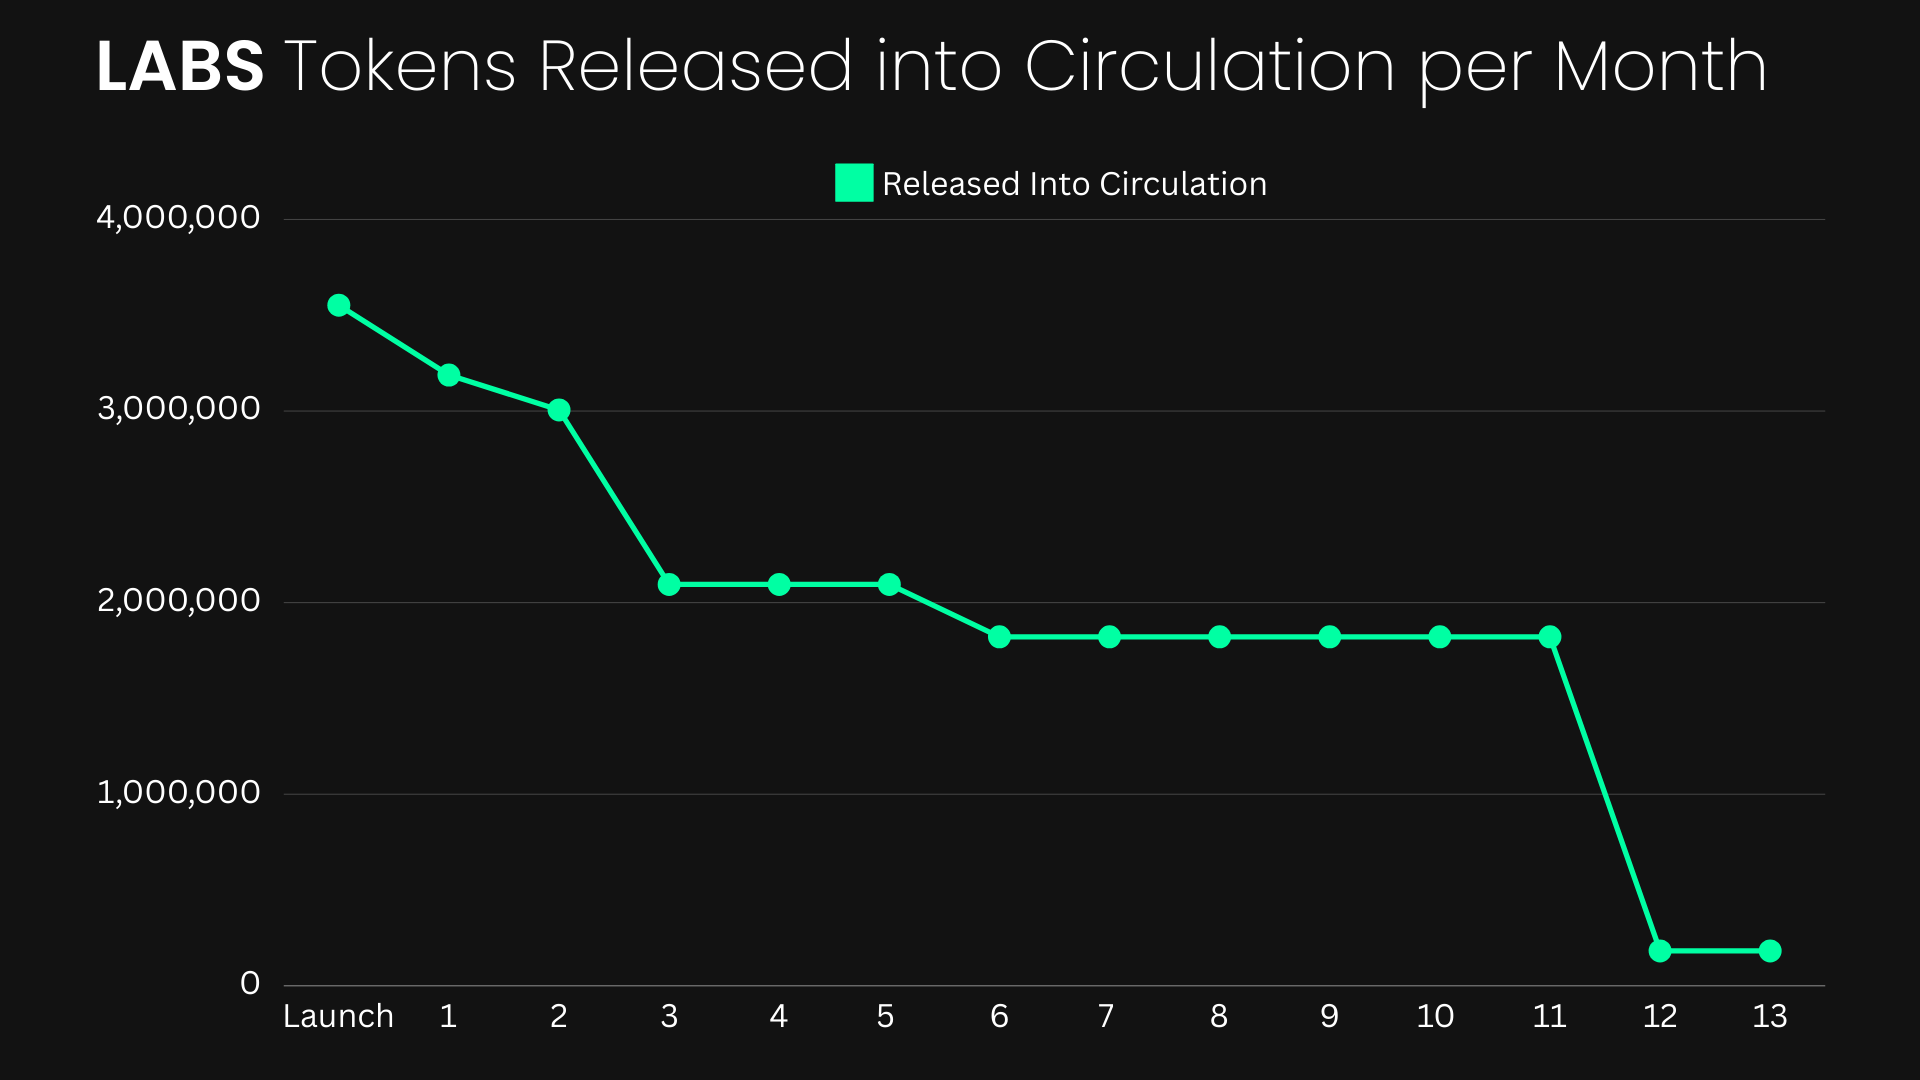
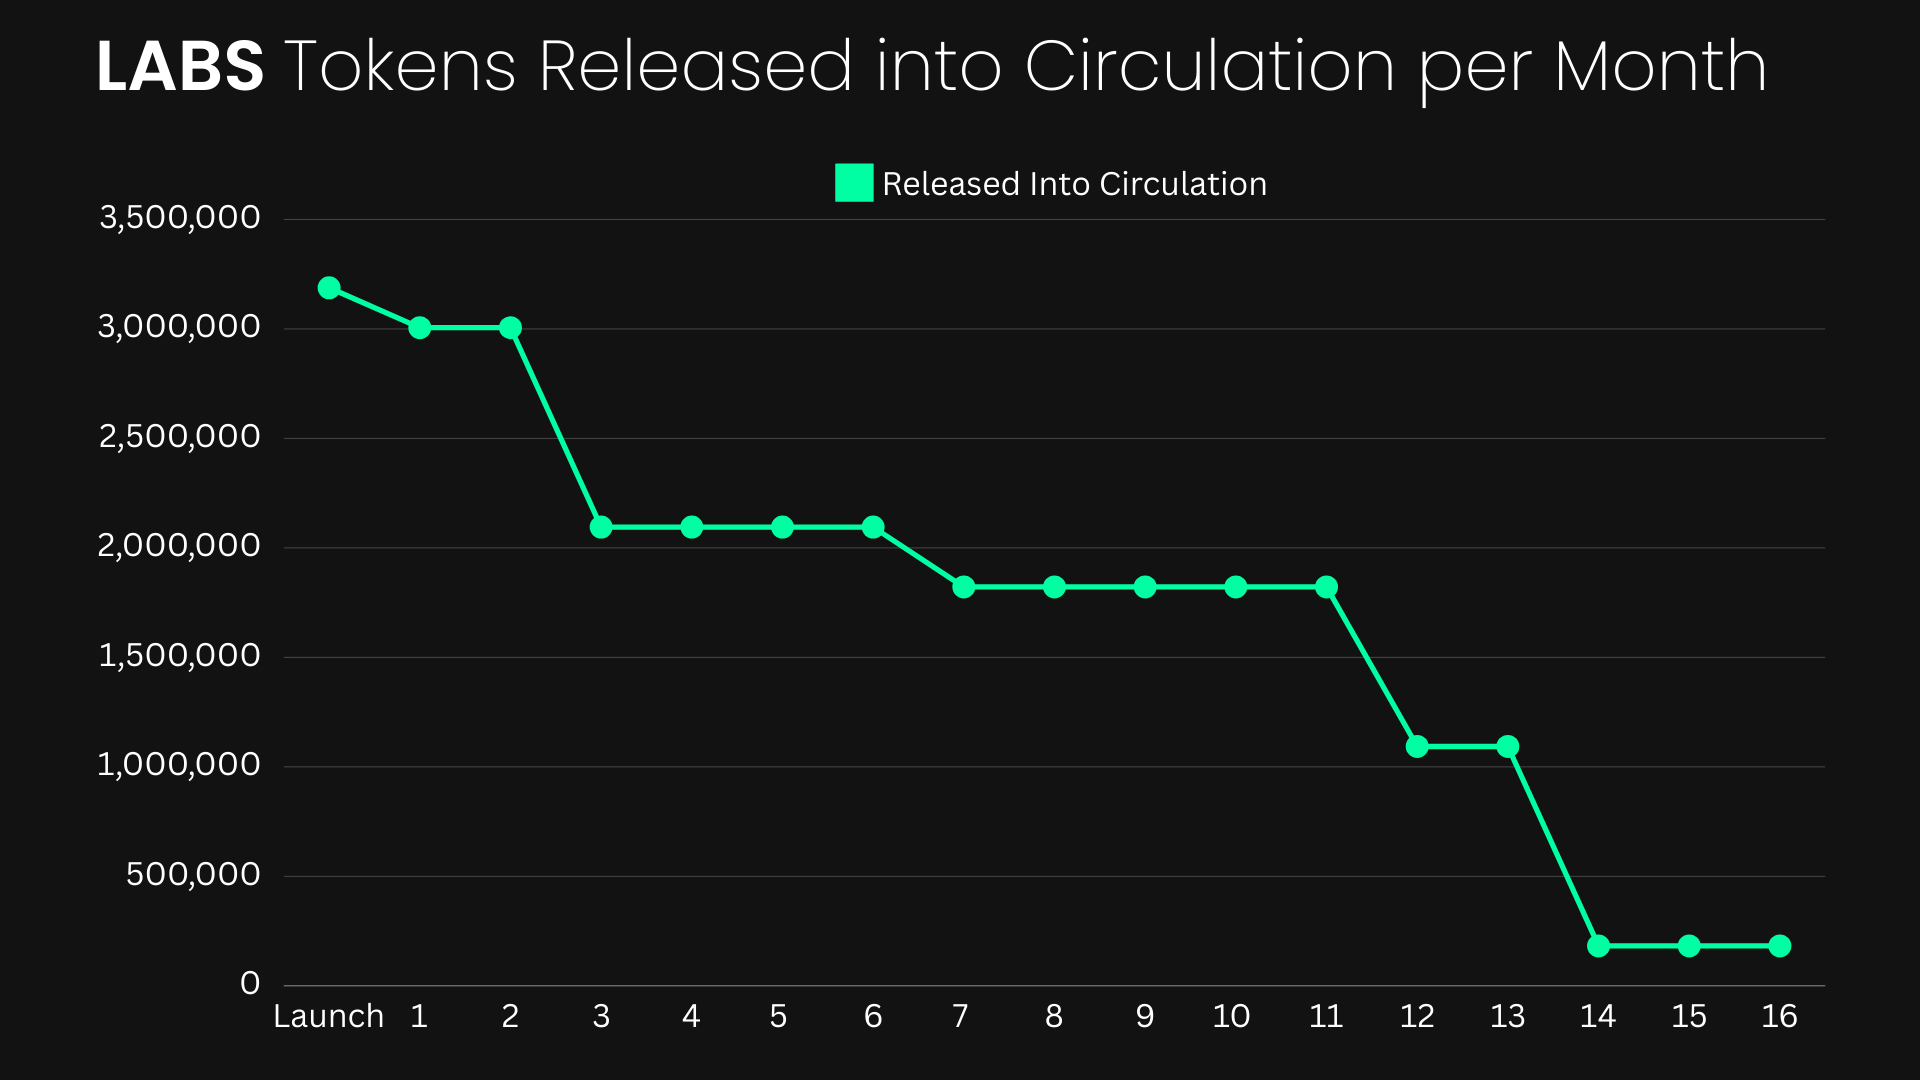
Updated Graphs / Removed Vault FAQs / Fixed Spacing - WIP v0.4.0

diff --git a/docs/src/introduction/labstoken.md b/docs/src/introduction/labstoken.md
@@ -1,19 +1,24 @@
 # LABS Token
 
-## Token Details:
-### Contract Address:
+## Token Details
+
+### Contract Address
+
 **[LABSh5DTebUcUbEoLzXKCiXFJLecDFiDWiBGUU1GpxR](https://solscan.io/token/LABSh5DTebUcUbEoLzXKCiXFJLecDFiDWiBGUU1GpxR)**
 
-### View LABS:
+### View LABS
+
 **[DexScreener](https://dexscreener.com/solana/3wxhfgvvygstoqj3xvmarnqf66wamwcvy4egwbjfk1bm)**
 **[BirdEye](https://birdeye.so/token/LABSh5DTebUcUbEoLzXKCiXFJLecDFiDWiBGUU1GpxR?chain=solana)**
 
 ### Buy/Sell/Swap LABS
+
 **[Raydium](https://raydium.io/swap/?inputMint=LABSh5DTebUcUbEoLzXKCiXFJLecDFiDWiBGUU1GpxR&outputMint=EPjFWdd5AufqSSqeM2qN1xzybapC8G4wEGGkZwyTDt1v)
 
 ## About LABS
 
 ***LABS*** is a governance and utility token that is used for decision making, project focuses, voting, and much more. ***LABS*** will be integrated with various protocols such as:
+
 * [Realms](https://realms.today/) - a Governance and Treasury protocol for project organizations.
 * [Streamflow Finance](https://streamflow.finance/) - a Value Transfer Layer that aligns tokenholder incentives through token vesting, secure token locks and more.
 * [Dual Finance](https://www.dual.finance/) - an Incentive Liquidity Infrastructure for Web3 communities.
@@ -35,15 +40,15 @@ This amount is going into the initial Liquidity Pool on Raydium. As soon as the 
 This amount will be allocated for the LABS-Vault Reward Pool, which you can learn more about here: [Understanding Vaults](/vault-program-docs/understanding-vaults.md). This allocation is purposely set aside for depositor rewards for when the LABS-Vault is used. The amount will be locked up and vested over the course of 12 months, released linearly.
 :::
 
-::: details DAO Treasury --> *8,744,416 LABS* 
-This portion is set aside for the [DAO](/terminology#decentralized-autonomous-organization-dao) and cannot be used unless the community within the DAO allows it to do so. This allocation will be vested over the course of 12 months, released linearly. 
+::: details DAO Treasury --> *8,744,416 LABS*
+This portion is set aside for the [DAO](/terminology#decentralized-autonomous-organization-dao) and cannot be used unless the community within the DAO allows it to do so. This allocation will be vested over the course of 12 months, released linearly.
 :::
 
 ::: details Team & Advisors --> *3,279,156 LABS*
 The Team and Advisors consist of the developers, internal investors, friends and advisors that have helped develop Epicentral Labs into what it is today. This amount is Vested over 14 months.
 :::
 
-::: details Marketing --> *2,732,630 LABS* 
+::: details Marketing --> *2,732,630 LABS*
 This is allocated for marketing purposes only. Including but not limited to airdrops, giveaways, competitions, sponsorships, partnerships, grants, and more! The marketing allocation is vested over 2 months. Shorter timeframe largely due to the tokens needed to accelerate growth effectively.
 :::
 
@@ -74,12 +79,14 @@ For all of our visual learners out there, below is a stacked bar chart showcasin
 *(This allocation is before [StreamFlow Finance](https://streamflow.finance/) fee of 0.19%).*
 
 ## Tokenomics Distribution Contracts
+
 * [LABS-Vault Reward Pool](https://app.streamflow.finance/contract/solana/mainnet/4xcfeTFsJtHJqMy4D7JKuwFeAhg1SeRoBF86M1jtnNJ7)
 * [DAO Treasury Pool](https://app.streamflow.finance/contract/solana/mainnet/FJpB3T4Y73XRrK98VFH7VowR3x1yGpjEUXsuNm841yjo)
 * [Marketing Pool](https://app.streamflow.finance/contract/solana/mainnet/EgDxcfuDwCXhrrfczia9bFEvCtc2cUGqHZwr2bPWDqXT)
 * [Community Bonuses Pool](https://app.streamflow.finance/contract/solana/mainnet/BcDHvTezFGL1iSooz682FjVUnUqTFcZ3PY4aaAYxRctP)
 
 ### Team Allocation Contracts
+
 * [Head Project Manager](https://app.streamflow.finance/contract/solana/mainnet/8QNcH3ui247mK6xaBwZKm821WRz7FhbUVqPjRE92nBvR)
 * [Internal Contributor 1](https://app.streamflow.finance/contract/solana/mainnet/HZwSTiBFXBmjbLeeLkid8KB2SP59tNEHA7sj9TXoVHRx)
 * [Internal Contributor 2](https://app.streamflow.finance/contract/solana/mainnet/GTP1PPsjQrJAWB1tUqfyFrtDCzBKFjLyXWbQQwEhGH52)
@@ -90,12 +97,11 @@ For all of our visual learners out there, below is a stacked bar chart showcasin
 * [Internal Contributor 5](https://app.streamflow.finance/contract/solana/mainnet/FQTMadFjGoTrENATn5iaAYgpdXmEMy1KQAzLr1ADbTzK)
 * [Head Content Creator](https://app.streamflow.finance/contract/solana/mainnet/P8oBYnNE1o6j7abiMLeDe4xnxxxfw2yrbQRmxLz2dtx)
 * [Internal Contributor 6](https://app.streamflow.finance/contract/solana/mainnet/EzFAbwy8fTwbZwpkoRJ69E9boANiqzgR21ioLnFMLdpz)
-* Lead Technical Specialist - Yet to Vote by [DAO](https://app.realms.today/dao/5PP7vKjJyLw1MR55LoexRsCj3CpZj9MdD6aNXRrvxG42) Council
-* Logo Designer - Yet to Vote by [DAO](https://app.realms.today/dao/5PP7vKjJyLw1MR55LoexRsCj3CpZj9MdD6aNXRrvxG42) Council
-* Head of Growth - Yet to Vote by [DAO](https://app.realms.today/dao/5PP7vKjJyLw1MR55LoexRsCj3CpZj9MdD6aNXRrvxG42) Council
+* Lead Technical Specialist - Voted by [DAO](https://app.realms.today/dao/5PP7vKjJyLw1MR55LoexRsCj3CpZj9MdD6aNXRrvxG42) Council
+* Logo Designer - Voted by [DAO](https://app.realms.today/dao/5PP7vKjJyLw1MR55LoexRsCj3CpZj9MdD6aNXRrvxG42) Council
+* Head of Growth - Voted by [DAO](https://app.realms.today/dao/5PP7vKjJyLw1MR55LoexRsCj3CpZj9MdD6aNXRrvxG42) Council
 
-
-Vesting Schedules are important for start up projects and businesses that wish to succeed long term. It is critical that every detail in the tokenomics of LABS is measured precisely so that there aren't any future dilemmas in how to go about releasing tokens. 
+Vesting Schedules are important for start up projects and businesses that wish to succeed long term. It is critical that every detail in the tokenomics of LABS is measured precisely so that there aren't any future dilemmas in how to go about releasing tokens.
 
 Token Vesting is essential in order to reduce large inflationary outcomes and provide market stability.
 
@@ -104,6 +110,7 @@ Token Vesting is essential in order to reduce large inflationary outcomes and pr
 *You can read more about ["What is Token Vesting Security?"](https://blog.streamflow.finance/what-is-token-vesting-security/) by [Streamflow](https://streamflow.finance/)*, they go into great detail covering more specifics on the pros and cons of token vesting versus not.
 
 ## Total Token Accumulation
+
 Self-explanitory. However, it is important to note that over the next 13 months, the circulating supply will increase and will eventually cap at the Total Supply amount. 
 
 Understanding how this affects price is important. If you don't understand basic economics such as **supply and demand**, we recommend you [read more about it here](https://www.investopedia.com/ask/answers/033115/how-does-law-supply-and-demand-affect-prices.asp#:~:text=The%20law%20of%20supply%20and%20demand%20centers%20on%20prices%20that,while%20demand%20increases%2C%20prices%20rise.).
@@ -111,7 +118,8 @@ Understanding how this affects price is important. If you don't understand basic
 <img src="/LABS-Total-Accumulation.png">
 
 ## Token Circulating Supply Schedule
-Circulating Supply is the amount of tokens that will be "out there" with accessability by the public. 
+
+Circulating Supply is the amount of tokens that will be "out there" with accessibility by the public.
 
 <img src="/LABS-Released-Per-Month.png">
 

diff --git a/docs/src/lab-updates/website-changelog.md b/docs/src/lab-updates/website-changelog.md
@@ -1,6 +1,13 @@
 # Website Changelog
 
 Most recent version will be presented at the top of the page. All changes made to the website/documentation pages is posted here. With all/any new releases made on GitHub, the description of what has changed is listed here. 
+
+## v0.4.0 (8/16/2024)
+### Removed:
+* FAQs Page removed under "Vault-Programs" as it is not necessary at this time.
+### Changes:
+* Reverted Website Changelog versions spacing.
+
 ## v0.3.2 (7/27/2024)
 ### Added:
 * LABS Token Details Added. [9961949](https://github.com/TheLazySol/lab-docs/commit/9961949e4b91d915372cd810f1d9c23c6276a94e)
@@ -31,7 +38,7 @@ Most recent version will be presented at the top of the page. All changes made t
 * Updated "Introduction>About Us" page with more information. [62dd46e](https://github.com/TheLazySol/lab-docs/commit/62dd46ed92e67c1154f2223c33b16f5ec6ced8ef)
 
 ## v0.2.5 (7/23/2024)
-### Bug Fix: 
+### Bug Fix:
 * Fixed versioning error in top right of the website changelog dropdown menu. [f7026d3](https://github.com/TheLazySol/lab-docs/commit/f7026d3528e4d6087423a9bccda76195da103e42) 
 
 ## v0.2.4 (7/22/2024)

diff --git a/docs/src/index.md b/docs/src/index.md
@@ -3,8 +3,8 @@ layout: home
 
 hero:
   name: "Epicentral Labs"
-  text: "Accelerate Incentives & Participation"
-  tagline: Creating innovative DeFi solutions...
+  text: ""
+  tagline: Innovative dev-tooling and real app integrations.
   actions:
     - theme: brand
       text: Open Docs
